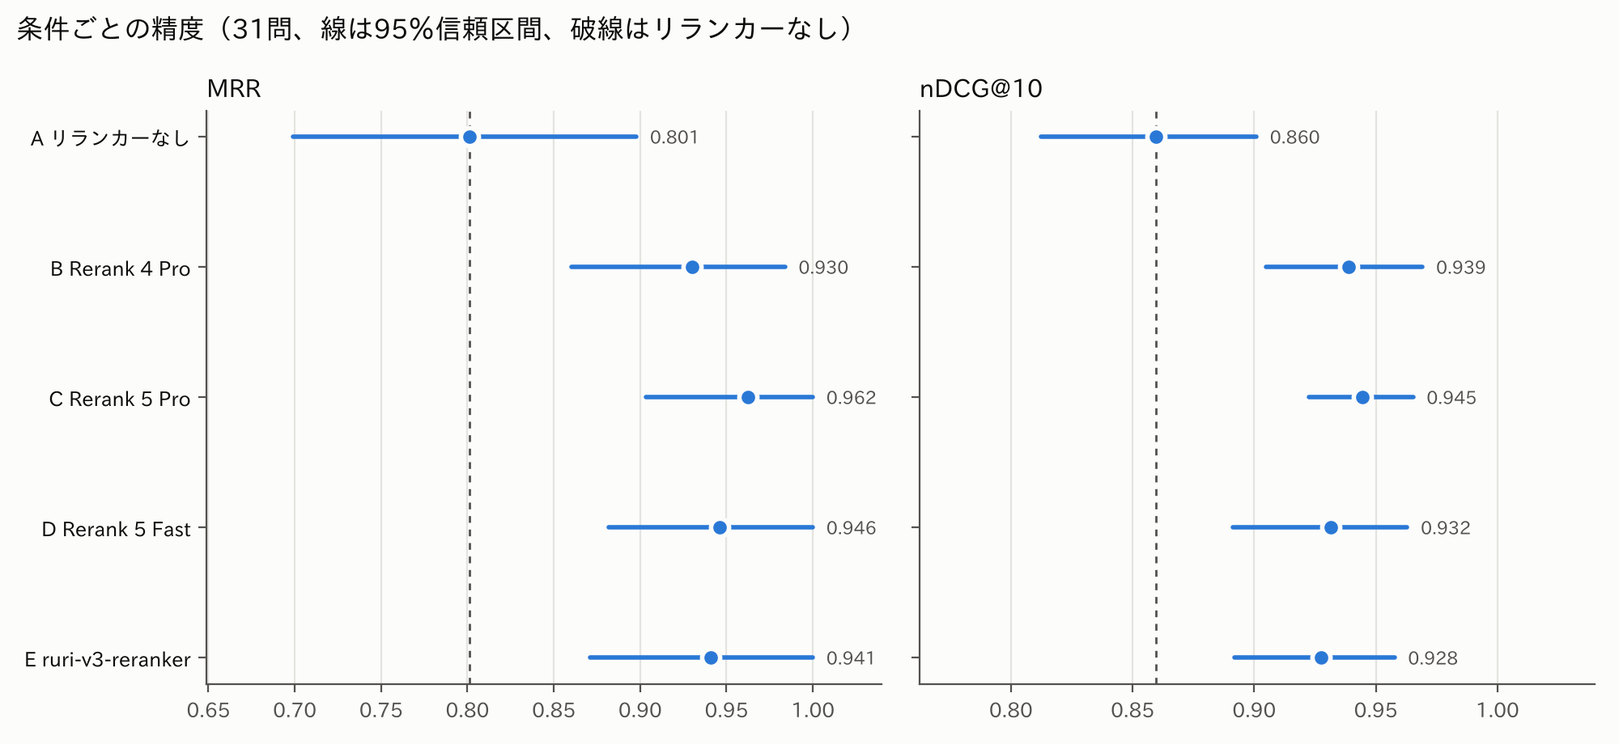
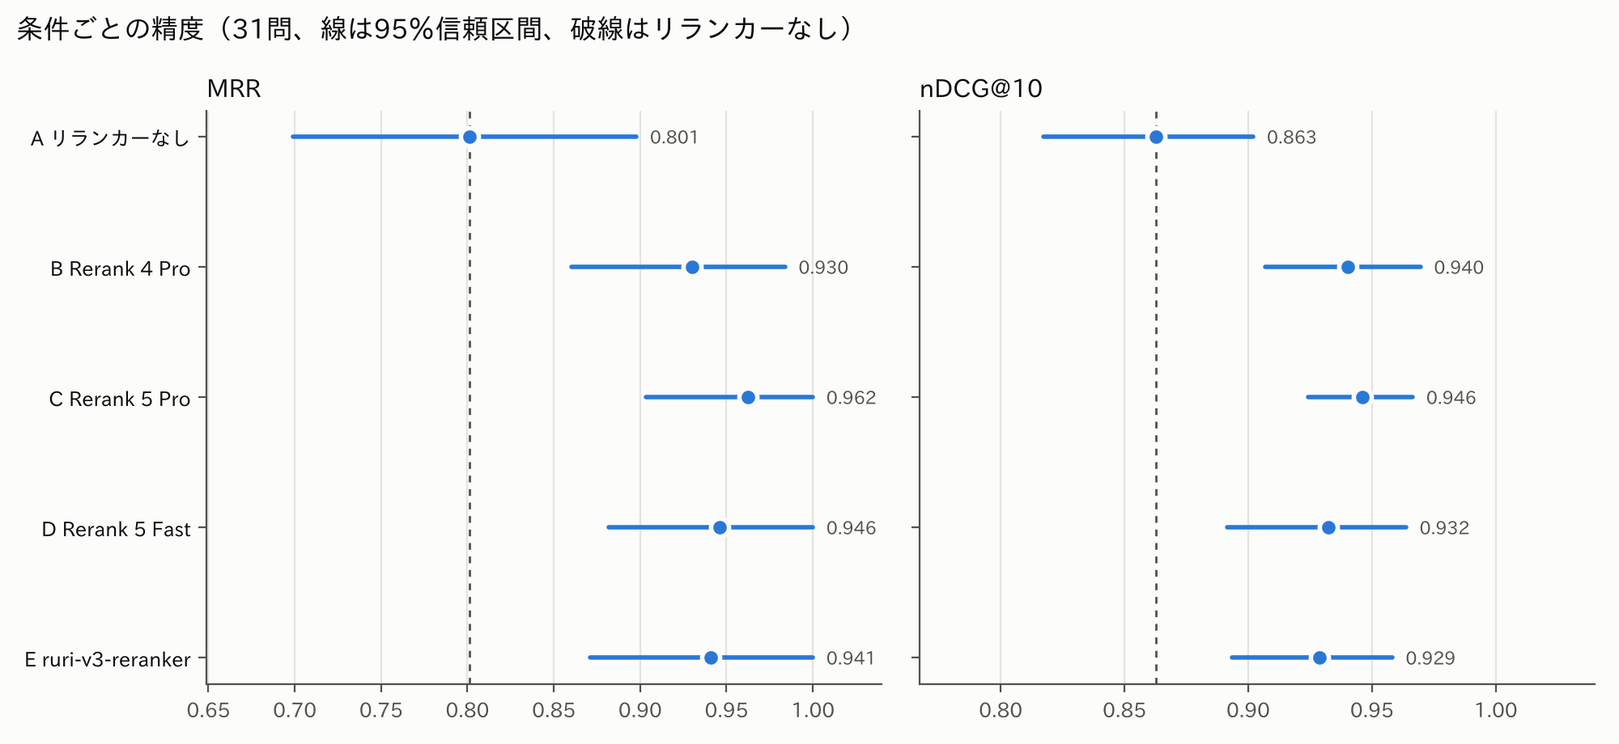
影響の大きい6問を見直し、q14・q27 の部分正解を追加して集計を作り直す
- 6問の根拠の文字列が、取得したページの原文と一致することを確かめた
- q14：部分正解に 2884-03 を追加。想定回答に、ソフトウェアを著作権の使用料とみなすのは作り手の判断と明記
- q27：部分正解に 2517-06・2517-07（出国後の源泉徴収の細目）を追加
- q09・q18・q19・q24：判定はそのまま（理由は docs/review_checklist.md）
- 集計を作り直した。MRR・Hit@1・追加実験は変わらず、nDCG@10 が小数第3位で変化
  （リランカーなし 0.860→0.863、4 Pro 0.939→0.940、5 Pro 0.945→0.946、ruri 0.928→0.929）
- 報告書（§7 に見直しの記録）、README、Zenn 下書き、確認リストの判定欄を更新

見直しは Claude Code によるもので、人による確認は未了。

Claude-Session: https://claude.ai/code/session_01TZdW7iVBbgQeKm1LDMk8U4

diff --git a/docs/review_checklist.md b/docs/review_checklist.md
@@ -11,6 +11,21 @@
 
 判定は「そのまま」「ラベルを直す」「質問文を直す」「外す」のどれか。直し方で、やり直す範囲が変わる（末尾の「直したあとの作業」）。
 
+## 判定の結果（2026-10-25、Claude Code）
+
+| 問題 | 判定 |
+| --- | --- |
+| q09 | そのまま |
+| q14 | ラベルを直す |
+| q18 | そのまま |
+| q19 | そのまま |
+| q24 | そのまま |
+| q27 | ラベルを直す |
+
+根拠の文字列は、6問とも取得したページの原文と一致した。ラベルを直した2問（q14・q27）を反映して集計を作り直した。MRR、Hit@1、追加実験の値は変わらず、nDCG@10 が小数第3位で動いた（詳しくは [phase5_report.md](phase5_report.md) の §7）。以下の各問のラベルは、直したあとのもの。
+
+この判定は Claude Code によるもので、仕様の「ユーザーが全問を確かめて直す」の代わりにはならない。人が確かめる場合は、各問の判定とメモに異論がないかを見てほしい。
+
 ## q09（素直な事実検索）
 
 **質問**：広告宣伝のための賞金を個人に支払う場合、賞金の額がいくら以下なら源泉徴収は不要ですか。
@@ -58,20 +73,20 @@
 
 **確認すること**：
 
-- [ ] 2792-02 の「懸賞応募作品等の入選者に支払う賞金等…50,000円以下」は、広告宣伝の賞金とは別の規則で、正解ではない、という判断でよいか
-- [ ] 2792-02 の8番目には「広告宣伝のための賞金」が源泉徴収の対象として挙がっている。金額は答えていないが、部分正解とみなす考え方もある（部分正解にすると、この問題の nDCG@10 は全条件で上がり、4 Pro は 0.618→0.824 になる。MRR は変わらない）
-- [ ] 2813-01（概要）は答えの金額を含まないので、ラベルなしのままでよいか
+- [x] 2792-02 の「懸賞応募作品等の入選者に支払う賞金等…50,000円以下」は、広告宣伝の賞金とは別の規則で、正解ではない、という判断でよいか
+- [x] 2792-02 の8番目には「広告宣伝のための賞金」が源泉徴収の対象として挙がっている。金額は答えていないが、部分正解とみなす考え方もある（部分正解にすると、この問題の nDCG@10 は全条件で上がり、4 Pro は 0.618→0.824 になる。MRR は変わらない）
+- [x] 2813-01（概要）は答えの金額を含まないので、ラベルなしのままでよいか
 
-**判定**：□ そのまま　□ ラベルを直す　□ 質問文を直す　□ 外す
+**判定**：そのまま（Claude Code が判定。人による確認は未了）
 
-**メモ**：
+**メモ**：2792-02 は答えの金額（50万円）を含まない。「広告宣伝の賞金も源泉徴収の対象」という記述は、ラベルなしにしてある 2813-01（概要）と同じ扱いにそろえた。
 
 
 ## q14（言い換え）
 
 **質問**：海外の会社にソフトウェアのライセンス料を払うとき、何パーセントを天引きすればよいですか。
 
-**想定回答**：著作権等の使用料として20.42％（租税条約で軽減・免除の場合あり）
+**想定回答**：著作権等の使用料として20.42％（租税条約で軽減・免除の場合あり）。本文に「ソフトウェア」という語はなく、ソフトウェアの使用許諾の対価を著作権の使用料とみなすのは作り手の判断
 
 **影響が大きい理由**：1段目の上位20件に正解のチャンクが入らなかった唯一の問題。精度の計算から外しているが、ページ単位の追加実験では1位で拾えた。
 
@@ -87,6 +102,8 @@
 
 - ◎ 正解 `2884-04`（概要 > 源泉徴収の対象となる国内源泉所得とその税率）（1段目の20件に入っていない）
   > （注1） 発行済株式または出資の総数または総額の3パーセント以上に相当する数または金額の株式または出資を有する非居住者が支払を受ける上場株式等の配当等は除きます。 / （注2） 上記の「上場株式等」には、公募証券投資信託（公社債投資信託および特定株式投資信託を除きます。）の受益権および特定投資法人の投資口も含まれます。 / ロ 私募公社債等運用投資信託等の収益の分配：15.315パーセント / ハ イおよびロ以外の配当等：20.42パーセント / （7） 貸付金の利子：20.42パーセント / （8） 工業所有権、著作権等の使用料等：20.42パーセント / （9） 給与その他人的役務の提供に対する報酬、退職手当等：20.42パーセント / （10） 公的年金等：20.42パーセント
+- ○ 部分正解 `2884-03`（概要 > 源泉徴収の対象となる国内源泉所得とその税率）
+  > （1） 民法に規定する組合契約等に基づいて恒久的施設を通じて行う事業から生じる利益でその契約に基づいて配分を受けるもの：20.42パーセント / （2） 土地等の譲渡対価：10.21パーセント / （ただし、土地等の譲渡対価が1億円以下で、その土地等を自己またはその親族の居住の用に供するために譲り受けた個人から支払われるものについては、源泉徴収は不要です。） / （3） 人的役務の提供事業の対価：20.42パーセント / （4） 不動産の賃貸料等：20.42パーセント / （ただし、不動産等の賃貸料で、自己またはその親族の居住の用に供するために借り受けた個人から支払われるものについては、源泉徴収は不要です。） / （5） 利子等：15.315パーセント / （6） 配当等 / イ 上場株式等の配当等：15.315パーセント
 - ○ 部分正解 `2884-06`（概要 > 租税条約の規定による税率の軽減または免除）（1段目の20件に入っていない）
   > 日本とその非居住者等の居住地国との間で租税条約が結ばれている場合には、その租税条約に定めるところにより、前記の税率が免除され、または軽減されることがあります。この免除または軽減を受けようとする場合には、支払日の前日までに「租税条約に関する届出書」等をその国内源泉所得の支払者を経由してその支払者の納税地の所轄税務署長に提出することとされています。 / なお、租税条約の適用により、その条約で定められている税率が前記の税率以下となるものについては、復興特別所得税（令和9年分以後は防衛特別所得税および復興特別所得税）を併せて源泉徴収する必要はありません。
 - ○ 部分正解 `2878-03`（概要 > 国内源泉所得の範囲）（1段目の20件に入っていない）
@@ -108,20 +125,20 @@
 | 条件 | 最初の正解の順位 | 上位3件 |
 | --- | --- | --- |
 | リランカーなし | 20位以内になし | `2801-06`、`2801-05`、`2810-04` |
-| 4 Pro | 20位以内になし | `2884-03` 0.867、`2884-02` 0.828、`2810-04` 0.811 |
+| 4 Pro | 20位以内になし | `2884-03`○ 0.867、`2884-02` 0.828、`2810-04` 0.811 |
 | 5 Pro | 20位以内になし | `2810-04` 0.043、`2810-05` 0.034、`2795-05` 0.026 |
 | 5 Fast | 20位以内になし | `2810-05` 0.014、`2795-05` 0.011、`2810-04` 0.010 |
-| ruri | 20位以内になし | `2884-03` 0.018、`2517-05` 0.014、`2884-05` 0.004 |
+| ruri | 20位以内になし | `2884-03`○ 0.018、`2517-05` 0.014、`2884-05` 0.004 |
 
 **確認すること**：
 
-- [ ] 「ソフトウェアのライセンス料」を「著作権等の使用料」とみなしてよいか。コーパスに「ソフトウェア」という語はなく、これは作り手（Claude Code）の判断
-- [ ] 言い換えとして強すぎないか。直すなら「海外の会社に、著作物を使わせてもらう対価を払うとき」などが考えられるが、本文と同じ言葉に近づく
-- [ ] 部分正解（2884-06 租税条約での軽減、2878-03 国内源泉所得の範囲、2888-01 届出書）は妥当か
+- [x] 「ソフトウェアのライセンス料」を「著作権等の使用料」とみなしてよいか。コーパスに「ソフトウェア」という語はなく、これは作り手（Claude Code）の判断
+- [x] 言い換えとして強すぎないか。直すなら「海外の会社に、著作物を使わせてもらう対価を払うとき」などが考えられるが、本文と同じ言葉に近づく
+- [x] 部分正解（2884-06 租税条約での軽減、2878-03 国内源泉所得の範囲、2888-01 届出書）は妥当か
 
-**判定**：□ そのまま　□ ラベルを直す　□ 質問文を直す　□ 外す
+**判定**：ラベルを直す（Claude Code が判定。人による確認は未了）
 
-**メモ**：
+**メモ**：部分正解に 2884-03 を足した（答えの表の前半で、2884-04 と一続き）。質問文はそのまま。ソフトウェアの使用許諾の対価を著作権の使用料とみなすのは作り手の判断なので、想定回答にそう書き足した。精度の対象外なので指標は変わらない。
 
 
 ## q18（言い換え）
@@ -170,13 +187,13 @@
 
 **確認すること**：
 
-- [ ] 想定回答（社員の子どもは「使用人の親族」＝特別の関係がある者に当たるので、学資の支給は非課税の要件から外れ、給与として課税）は、ページの記述と合っているか
-- [ ] 2588-03（定義と例外）を正解にしてよいか。部分正解にとどめる考え方もある（その場合、この問題の MRR は変わらず、nDCG@10 は全条件で上がる。5 Pro は 0.867→0.882）
-- [ ] 質問文は「課税されますか」の一問で、例外（その親族自身が使用人で、その人だけを対象にしない支給）まで答えに含めるべきか
+- [x] 想定回答（社員の子どもは「使用人の親族」＝特別の関係がある者に当たるので、学資の支給は非課税の要件から外れ、給与として課税）は、ページの記述と合っているか
+- [x] 2588-03（定義と例外）を正解にしてよいか。部分正解にとどめる考え方もある（その場合、この問題の MRR は変わらず、nDCG@10 は全条件で上がる。5 Pro は 0.867→0.882）
+- [x] 質問文は「課税されますか」の一問で、例外（その親族自身が使用人で、その人だけを対象にしない支給）まで答えに含めるべきか
 
-**判定**：□ そのまま　□ ラベルを直す　□ 質問文を直す　□ 外す
+**判定**：そのまま（Claude Code が判定。人による確認は未了）
 
-**メモ**：
+**メモ**：2588-02 の「特別の関係がある者（注）」の中身は 2588-03 にしかなく、社員の子どもが当たると言うには両方が要る。2588-03 は正解のまま。
 
 
 ## q19（言い換え）
@@ -226,13 +243,13 @@
 
 **確認すること**：
 
-- [ ] 「副業先＝従たる給与＝乙欄」は、本業の会社に扶養控除等申告書を出している前提での答え。この前提を質問文に書かなくてよいか（書くと「扶養控除等申告書」という本文の語が質問に入り、言い換えの問題としては易しくなる）
-- [ ] 2514-01（パートやアルバイトの源泉徴収。甲欄・乙欄の使い分けが書いてある）をラベルなしにしてよいか。部分正解とみなす考え方もある（その場合、MRR は変わらず、nDCG@10 は全条件で上がる。5 Fast は 0.454→0.663）
-- [ ] 部分正解の 2511-02 は1段目の20件に入っていない。ラベルとしては残してよいか（nDCG@10 の理想の並びに入る）
+- [x] 「副業先＝従たる給与＝乙欄」は、本業の会社に扶養控除等申告書を出している前提での答え。この前提を質問文に書かなくてよいか（書くと「扶養控除等申告書」という本文の語が質問に入り、言い換えの問題としては易しくなる）
+- [x] 2514-01（パートやアルバイトの源泉徴収。甲欄・乙欄の使い分けが書いてある）をラベルなしにしてよいか。部分正解とみなす考え方もある（その場合、MRR は変わらず、nDCG@10 は全条件で上がる。5 Fast は 0.454→0.663）
+- [x] 部分正解の 2511-02 は1段目の20件に入っていない。ラベルとしては残してよいか（nDCG@10 の理想の並びに入る）
 
-**判定**：□ そのまま　□ ラベルを直す　□ 質問文を直す　□ 外す
+**判定**：そのまま（Claude Code が判定。人による確認は未了）
 
-**メモ**：
+**メモ**：2520-02 が「主たる給与＝扶養控除等申告書を提出している人に支払う給与」と定義しているので、副業先は従たる給与（乙欄）と言える。2514-01 はどちらの欄かを述べていないので、ラベルなしのまま。
 
 
 ## q24（言い換え）
@@ -278,13 +295,13 @@
 
 **確認すること**：
 
-- [ ] 「社員の特許の権利を会社が買い取って、その場でまとめてお金を払った」は「権利の承継に際し一時に支給されるもの＝譲渡所得」（2592-02）に当たる、という読みでよいか
-- [ ] 職務発明で、会社があらかじめ権利を取得する制度（使用者原始帰属）なら、答えは雑所得（2592-03）になる。質問文が「買い取って」なので 2592-03 は部分正解にしたが、それでよいか
-- [ ] 2592-04（実施権の設定）をラベルなしにしてよいか
+- [x] 「社員の特許の権利を会社が買い取って、その場でまとめてお金を払った」は「権利の承継に際し一時に支給されるもの＝譲渡所得」（2592-02）に当たる、という読みでよいか
+- [x] 職務発明で、会社があらかじめ権利を取得する制度（使用者原始帰属）なら、答えは雑所得（2592-03）になる。質問文が「買い取って」なので 2592-03 は部分正解にしたが、それでよいか
+- [x] 2592-04（実施権の設定）をラベルなしにしてよいか
 
-**判定**：□ そのまま　□ ラベルを直す　□ 質問文を直す　□ 外す
+**判定**：そのまま（Claude Code が判定。人による確認は未了）
 
-**メモ**：
+**メモ**：「買い取って」は権利の承継（2592-02、譲渡所得）に当たる。会社が原始取得する職務発明（2592-03）は買い取りではないので、部分正解のまま。2592-04（実施権の設定）は別の取引。
 
 
 ## q27（複数箇所）
@@ -316,6 +333,10 @@
   > （注） 年末調整において、配偶者（特別）控除、特定親族特別控除、基礎控除、保険料控除および所得金額調整控除の適用を受けようとする場合は、所要の事項を記載した「給与所得者の配偶者控除等申告書」、「給与所得者の特定親族特別控除申告書」、「給与所得者の基礎控除申告書」、「給与所得者の保険料控除申告書」および「所得金額調整控除申告書」を提出しなければなりません。
 - ○ 部分正解 `2665-03`（概要 > 年の中途で行う年末調整の対象となる人）（1段目の20件に入っていない）
   > 年の中途で行う年末調整の対象となる人は、次の5つのいずれかに当てはまる人です。 / （1） 海外支店等に転勤したことなどの理由により非居住者となった人 / （2） 死亡によって退職した人 / （3） 著しい心身の障害のために退職した人（退職した後に再就職をし給与を受け取る見込みのある人は除きます。） / （4） 12月に支給されるべき給与等の支払を受けた後に退職した人 / （5） いわゆるパートタイマーとして働いている人などが退職した場合で、本年中に支払を受ける給与の総額が136万円以下である人（退職後その年に他の勤務先から給与の支払を受ける見込みのある人は除きます。） / したがって、年の中途で退職した人で（1）から（4）以外の人は年末調整の対象となりません。
+- ○ 部分正解 `2517-06`（概要 > 海外に出国した後）
+  > 具体的には、給与等の総額のうち、国内において行った勤務に対応する部分の金額は、原則として、次の算式により計算することになります。 / 【算式】 / なお、非居住者となった使用人が、一時的な出張等により日本で勤務した場合におけるこの「国内において行った勤務に対応する部分の金額」も、原則として、上記の算式により計算することになります。ただし、当該出張等により、非課税となる旅費とは別に手当等が支給される場合の当該手当等については、原則として、その全額が「国内において行った勤務に対応する部分の金額」となります。
+- ○ 部分正解 `2517-07`（概要 > 海外に出国した後）
+  > (注) 給与等の計算期間の中途において居住者から非居住者となった場合、給与等の計算期間が1か月以下であれば、給与等の計算期間のうちに日本での勤務期間が含まれていても源泉徴収をしなくてもよいことになっています（給与等の全額が日本での勤務に対応する場合には、20.42パーセントの税率で源泉徴収が必要です。）。
 
 **根拠の文字列**：
 
@@ -326,7 +347,7 @@
 
 | 条件 | 最初の正解の順位 | 上位3件 |
 | --- | --- | --- |
-| リランカーなし | 3 | `2517-01`○、`2517-07`、`2517-05`◎ |
+| リランカーなし | 3 | `2517-01`○、`2517-07`○、`2517-05`◎ |
 | 4 Pro | 2 | `2517-01`○ 0.961、`2517-02`◎ 0.953、`2517-05`◎ 0.940 |
 | 5 Pro | 1 | `2517-02`◎ 0.734、`2517-05`◎ 0.685、`2517-01`○ 0.667 |
 | 5 Fast | 1 | `2517-02`◎ 0.766、`2517-05`◎ 0.716、`2517-01`○ 0.678 |
@@ -334,13 +355,13 @@
 
 **確認すること**：
 
-- [ ] 2517-01（「1年以上の予定で転勤すると非居住者になる」という前置き）を部分正解にしたのは妥当か。正解とみなすと、この問題の MRR は 4 Pro が 0.5→1.0、リランカーなしが 0.333→1.0 になり、全条件で1位が正解になる。この事例は記事から消える
-- [ ] 正解の2チャンク（2517-02 出国前の年末調整、2517-05 出国後の源泉徴収）で、質問の2つの論点に過不足なく答えられるか
-- [ ] 想定回答の括弧書き（役員報酬や国内勤務期間分の賞与は20.42％）は、答えに含めるべきか
+- [x] 2517-01（「1年以上の予定で転勤すると非居住者になる」という前置き）を部分正解にしたのは妥当か。正解とみなすと、この問題の MRR は 4 Pro が 0.5→1.0、リランカーなしが 0.333→1.0 になり、全条件で1位が正解になる。この事例は記事から消える
+- [x] 正解の2チャンク（2517-02 出国前の年末調整、2517-05 出国後の源泉徴収）で、質問の2つの論点に過不足なく答えられるか
+- [x] 想定回答の括弧書き（役員報酬や国内勤務期間分の賞与は20.42％）は、答えに含めるべきか
 
-**判定**：□ そのまま　□ ラベルを直す　□ 質問文を直す　□ 外す
+**判定**：ラベルを直す（Claude Code が判定。人による確認は未了）
 
-**メモ**：
+**メモ**：部分正解に 2517-06（国内勤務分の金額の計算）と 2517-07（計算期間が1か月以下の場合の扱い）を足した。どちらも出国後の源泉徴収の細目で、ラベルが漏れていた。2517-01 は前置きなので部分正解のまま。
 
 
 ## 直したあとの作業
@@ -353,4 +374,4 @@
 
 質問文を直す場合、いまの `retrieve.py` は全問の候補を作り直すので、ほかの問題の候補も入れ替わるおそれがある。その場合は、直した問題だけ候補を差し替える処理を足してから行う。
 
-判定を書き込んでもらえれば、`data/qa.jsonl` の修正、集計の作り直し、報告書と記事の下書きへの反映は Claude Code が行う。
+判定を変えたい問題があれば、`data/qa.jsonl` の修正、集計の作り直し、報告書と記事の下書きへの反映は Claude Code が行う。

diff --git a/docs/phase2_qa_review.md b/docs/phase2_qa_review.md
@@ -182,12 +182,14 @@
 
 ### q14　海外の会社にソフトウェアのライセンス料を払うとき、何パーセントを天引きすればよいですか。
 
-想定回答：著作権等の使用料として20.42％（租税条約で軽減・免除の場合あり）
+想定回答：著作権等の使用料として20.42％（租税条約で軽減・免除の場合あり）。本文に「ソフトウェア」という語はなく、ソフトウェアの使用許諾の対価を著作権の使用料とみなすのは作り手の判断
 
 根拠（`2884-04`）：「工業所有権、著作権等の使用料等：20.42パーセント」
 
 - ◎ `2884-04`（非居住者等に対する源泉徴収・源泉徴収の税率｜概要 > 源泉徴収の対象となる国内源泉所得とその税率）
   > （注1） 発行済株式または出資の総数または総額の3パーセント以上に相当する数または金額の株式または出資を有する非居住者が支払を受ける上場株式等の配当等は除きます。 / （注2） 上記の「上場株式等」には、公募証券投資信託（公社債投資信託および特定株式投資信託を除きます。）の受益権および特定投資法人の投資口も含まれます。 / ロ 私募公社債等運用投資信託等の収益の分配：15.315パーセント / ハ イおよびロ以外の配当等：20.42パーセント / （7） 貸付金の利子：20.42パーセント / （8） 工業所有権、著作権等の使用料等：20.42パーセント / （9） 給与その他人的役務の提供に対する報酬、退職手当等：20.42パーセント / （10） 公的年金等：20.42パーセント
+- ○ `2884-03`（非居住者等に対する源泉徴収・源泉徴収の税率｜概要 > 源泉徴収の対象となる国内源泉所得とその税率）
+  > （1） 民法に規定する組合契約等に基づいて恒久的施設を通じて行う事業から生じる利益でその契約に基づいて配分を受けるもの：20.42パーセント / （2） 土地等の譲渡対価：10.21パーセント / （ただし、土地等の譲渡対価が1億円以下で、その土地等を自己またはその親族の居住の用に供するために譲り受…
 - ○ `2884-06`（非居住者等に対する源泉徴収・源泉徴収の税率｜概要 > 租税条約の規定による税率の軽減または免除）
   > 日本とその非居住者等の居住地国との間で租税条約が結ばれている場合には、その租税条約に定めるところにより、前記の税率が免除され、または軽減されることがあります。この免除または軽減を受けようとする場合には、支払日の前日までに「租税条約に関する届出書」等をその国内源泉所得の支払者を経由してその支払者の納税…
 - ○ `2878-03`（国内源泉所得の範囲｜概要 > 国内源泉所得の範囲）
@@ -399,6 +401,10 @@
   > （注） 年末調整において、配偶者（特別）控除、特定親族特別控除、基礎控除、保険料控除および所得金額調整控除の適用を受けようとする場合は、所要の事項を記載した「給与所得者の配偶者控除等申告書」、「給与所得者の特定親族特別控除申告書」、「給与所得者の基礎控除申告書」、「給与所得者の保険料控除申告書」およ…
 - ○ `2665-03`（年末調整の対象となる人｜概要 > 年の中途で行う年末調整の対象となる人）
   > 年の中途で行う年末調整の対象となる人は、次の5つのいずれかに当てはまる人です。 / （1） 海外支店等に転勤したことなどの理由により非居住者となった人 / （2） 死亡によって退職した人 / （3） 著しい心身の障害のために退職した人（退職した後に再就職をし給与を受け取る見込みのある人は除きます。）…
+- ○ `2517-06`（海外に転勤する人の年末調整と転勤後の源泉徴収｜概要 > 海外に出国した後）
+  > 具体的には、給与等の総額のうち、国内において行った勤務に対応する部分の金額は、原則として、次の算式により計算することになります。 / 【算式】 / なお、非居住者となった使用人が、一時的な出張等により日本で勤務した場合におけるこの「国内において行った勤務に対応する部分の金額」も、原則として、上記の算…
+- ○ `2517-07`（海外に転勤する人の年末調整と転勤後の源泉徴収｜概要 > 海外に出国した後）
+  > (注) 給与等の計算期間の中途において居住者から非居住者となった場合、給与等の計算期間が1か月以下であれば、給与等の計算期間のうちに日本での勤務期間が含まれていても源泉徴収をしなくてもよいことになっています（給与等の全額が日本での勤務に対応する場合には、20.42パーセントの税率で源泉徴収が必要です…
 
 ### q28　賞与の源泉徴収で、前月に給与の支払がない場合と、前月の給与の10倍を超える賞与を支払う場合は、それぞれどう計算しますか。
 

diff --git a/results/2026-10-25/summary.md b/results/2026-10-25/summary.md
@@ -8,15 +8,15 @@
 
 | 条件 | モデル | Hit@1 | Recall@5 | MRR | nDCG@10 |
 | --- | --- | --- | --- | --- | --- |
-| A リランカーなし | — | 0.645 | 0.968 | 0.801（0.70〜0.90） | 0.860（0.81〜0.90） |
-| B Rerank 4 Pro | `rerank-v4.0-pro` | 0.871 | 1.000 | 0.930（0.86〜0.98） | 0.939（0.90〜0.97） |
-| C Rerank 5 Pro | `rerank-v5.0-pro` | 0.935 | 1.000 | 0.962（0.90〜1.00） | 0.945（0.92〜0.97） |
+| A リランカーなし | — | 0.645 | 0.968 | 0.801（0.70〜0.90） | 0.863（0.82〜0.90） |
+| B Rerank 4 Pro | `rerank-v4.0-pro` | 0.871 | 1.000 | 0.930（0.86〜0.98） | 0.940（0.91〜0.97） |
+| C Rerank 5 Pro | `rerank-v5.0-pro` | 0.935 | 1.000 | 0.962（0.90〜1.00） | 0.946（0.92〜0.97） |
 | D Rerank 5 Fast | `rerank-v5.0-fast` | 0.903 | 0.984 | 0.946（0.88〜1.00） | 0.932（0.89〜0.96） |
-| C2 5 Pro＋CF 0.1 | `rerank-v5.0-pro`（Context Focus 0.1） | 0.935 | 1.000 | 0.962（0.90〜1.00） | 0.945（0.92〜0.97） |
-| C2 5 Pro＋CF 0.4 | `rerank-v5.0-pro`（Context Focus 0.4） | 0.935 | 1.000 | 0.962（0.90〜1.00） | 0.945（0.92〜0.97） |
+| C2 5 Pro＋CF 0.1 | `rerank-v5.0-pro`（Context Focus 0.1） | 0.935 | 1.000 | 0.962（0.90〜1.00） | 0.946（0.92〜0.97） |
+| C2 5 Pro＋CF 0.4 | `rerank-v5.0-pro`（Context Focus 0.4） | 0.935 | 1.000 | 0.962（0.90〜1.00） | 0.946（0.92〜0.97） |
 | D2 5 Fast＋CF 0.1 | `rerank-v5.0-fast`（Context Focus 0.1） | 0.903 | 0.984 | 0.946（0.88〜1.00） | 0.932（0.89〜0.96） |
 | D2 5 Fast＋CF 0.4 | `rerank-v5.0-fast`（Context Focus 0.4） | 0.903 | 0.984 | 0.946（0.88〜1.00） | 0.932（0.89〜0.96） |
-| E ruri-v3-reranker | `cl-nagoya/ruri-v3-reranker-310m`（CPU） | 0.903 | 0.984 | 0.941（0.87〜1.00） | 0.928（0.89〜0.96） |
+| E ruri-v3-reranker | `cl-nagoya/ruri-v3-reranker-310m`（CPU） | 0.903 | 0.984 | 0.941（0.87〜1.00） | 0.929（0.89〜0.96） |
 
 ## 条件の差（同じ問題どうしの差の平均と95％信頼区間）
 
@@ -24,13 +24,13 @@
 
 | 比較 | Hit@1 の差 | MRR の差 | nDCG@10 の差 | MRR で良い／悪い |
 | --- | --- | --- | --- | --- |
-| B − A | +0.226（+0.06〜+0.39） | +0.129（+0.04〜+0.23） | +0.079（+0.04〜+0.12） | 9／1 |
-| C − A | +0.290（+0.13〜+0.45） | +0.161（+0.08〜+0.26） | +0.085（+0.05〜+0.13） | 9／0 |
-| D − A | +0.258（+0.06〜+0.42） | +0.145（+0.05〜+0.24） | +0.072（+0.03〜+0.12） | 9／1 |
-| E − A | +0.258（+0.06〜+0.45） | +0.140（+0.04〜+0.24） | +0.068（+0.02〜+0.11） | 9／1 |
+| B − A | +0.226（+0.06〜+0.39） | +0.129（+0.04〜+0.23） | +0.078（+0.04〜+0.12） | 9／1 |
+| C − A | +0.290（+0.13〜+0.45） | +0.161（+0.08〜+0.26） | +0.083（+0.04〜+0.13） | 9／0 |
+| D − A | +0.258（+0.06〜+0.42） | +0.145（+0.05〜+0.24） | +0.070（+0.03〜+0.12） | 9／1 |
+| E − A | +0.258（+0.06〜+0.45） | +0.140（+0.04〜+0.24） | +0.066（+0.02〜+0.11） | 9／1 |
 | C − B | +0.065（-0.03〜+0.19） | +0.032（-0.03〜+0.10） | +0.006（-0.02〜+0.03） | 3／1 |
-| D − B | +0.032（-0.10〜+0.16） | +0.016（-0.05〜+0.08） | -0.007（-0.04〜+0.03） | 3／2 |
-| C − D | +0.032（-0.06〜+0.13） | +0.016（-0.03〜+0.06） | +0.013（-0.01〜+0.04） | 2／1 |
+| D − B | +0.032（-0.10〜+0.16） | +0.016（-0.05〜+0.08） | -0.008（-0.04〜+0.03） | 3／2 |
+| C − D | +0.032（-0.06〜+0.13） | +0.016（-0.03〜+0.06） | +0.014（-0.01〜+0.04） | 2／1 |
 | C − E | +0.032（-0.06〜+0.13） | +0.022（-0.03〜+0.09） | +0.017（-0.01〜+0.05） | 2／1 |
 
 3回の実行で順位がすべて同じだった問題の割合は、B Rerank 4 Pro が 62.5％で、ほかの条件はすべて100％だった。精度は1回目の順位で計算した。
@@ -67,8 +67,8 @@
 
 | 条件 | しきい値 | 適合率 | 適合率（部分正解も正解とみなす） | 再現率 | 答えなし8問で全候補が下回った割合 | 答えあり32問で1件以上が上回った割合 |
 | --- | --- | --- | --- | --- | --- | --- |
-| C Rerank 5 Pro | 0.50 | 0.494 | 0.809 | 0.898 | 100.0％ | 93.8％ |
-| D Rerank 5 Fast | 0.45 | 0.338 | 0.590 | 0.959 | 100.0％ | 96.9％ |
+| C Rerank 5 Pro | 0.50 | 0.494 | 0.831 | 0.898 | 100.0％ | 93.8％ |
+| D Rerank 5 Fast | 0.45 | 0.338 | 0.604 | 0.959 | 100.0％ | 96.9％ |
 
 ### 1位のスコアで答えの有無を分けられるか
 

diff --git a/README.md b/README.md
@@ -8,11 +8,11 @@
 
 | 条件 | MRR | nDCG@10 | 遅延 p50 | 1問あたり費用 |
 | --- | --- | --- | --- | --- |
-| リランカーなし | 0.801 | 0.860 | — | — |
-| `rerank-v4.0-pro` | 0.930 | 0.939 | 499 ms | 0.0025 ドル |
-| `rerank-v5.0-pro` | 0.962 | 0.945 | 434 ms | 0.00018 ドル |
+| リランカーなし | 0.801 | 0.863 | — | — |
+| `rerank-v4.0-pro` | 0.930 | 0.940 | 499 ms | 0.0025 ドル |
+| `rerank-v5.0-pro` | 0.962 | 0.946 | 434 ms | 0.00018 ドル |
 | `rerank-v5.0-fast` | 0.946 | 0.932 | 416 ms | 0.00011 ドル |
-| `cl-nagoya/ruri-v3-reranker-310m`（CPU） | 0.941 | 0.928 | 7,789 ms | — |
+| `cl-nagoya/ruri-v3-reranker-310m`（CPU） | 0.941 | 0.929 | 7,789 ms | — |
 
 - どのリランカーも、リランカーなしより明らかに精度が上がる。モデルどうしの差は、31問では誤差の範囲
 - Context Focus は、短いチャンク（平均約280字）ではトークンを1.5〜10％しか減らさなかった。ページ全文（中央値980字）を渡す追加実験では62〜66％減り、根拠の文字列は98〜100％残った（[results/2026-10-25/page_cf/summary.md](results/2026-10-25/page_cf/summary.md)）
